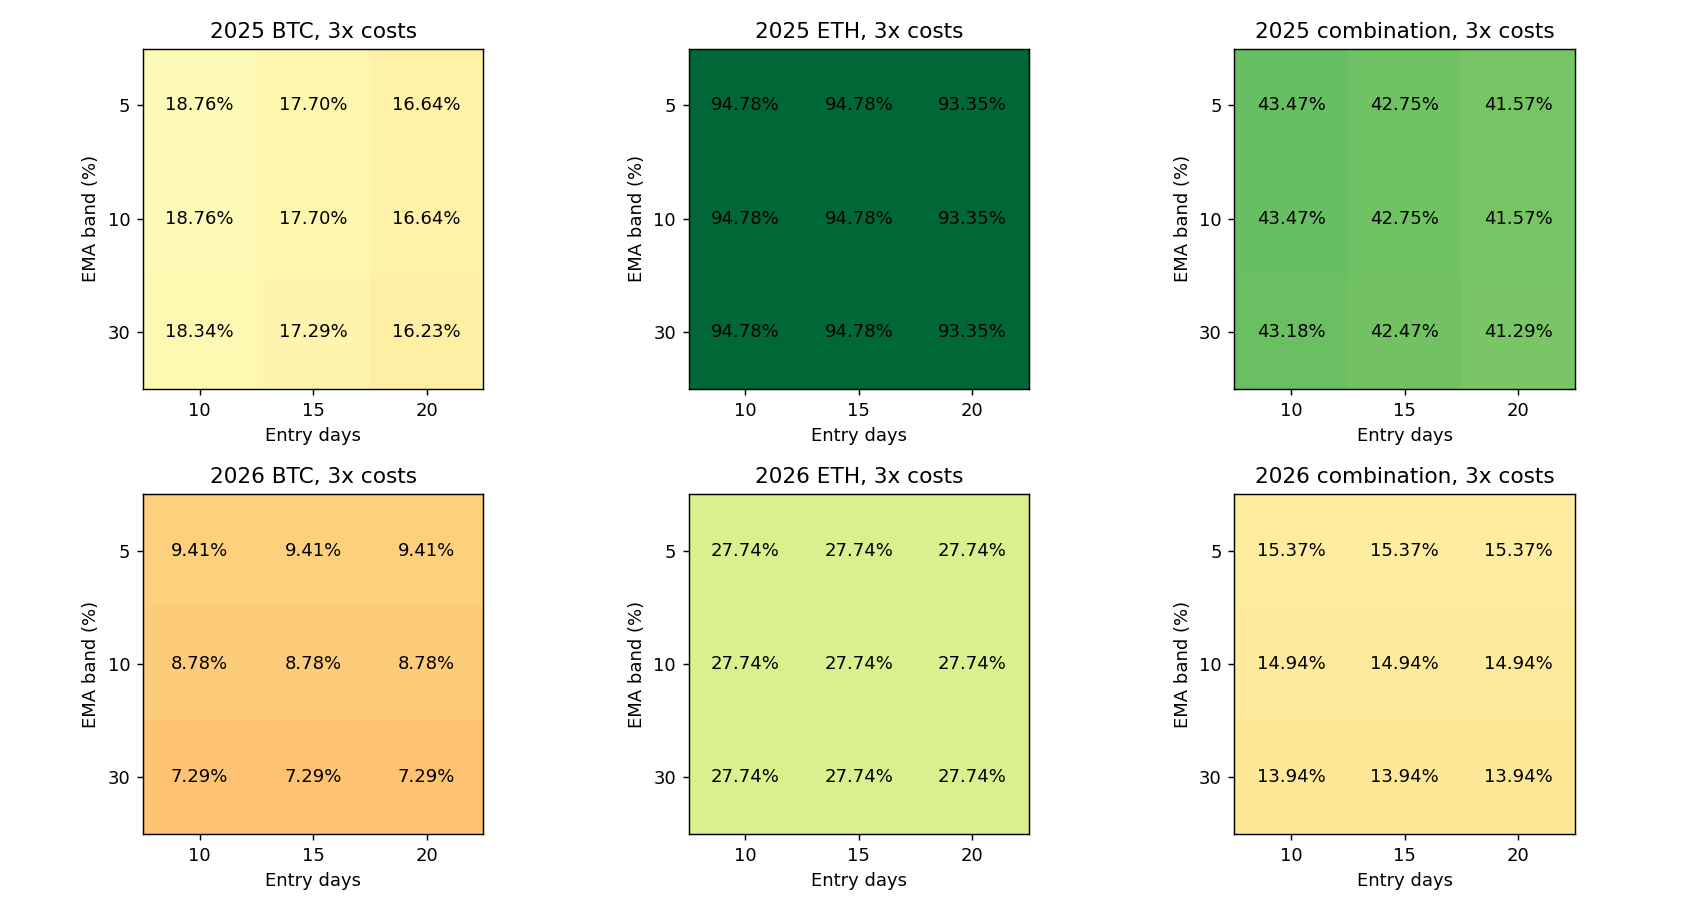
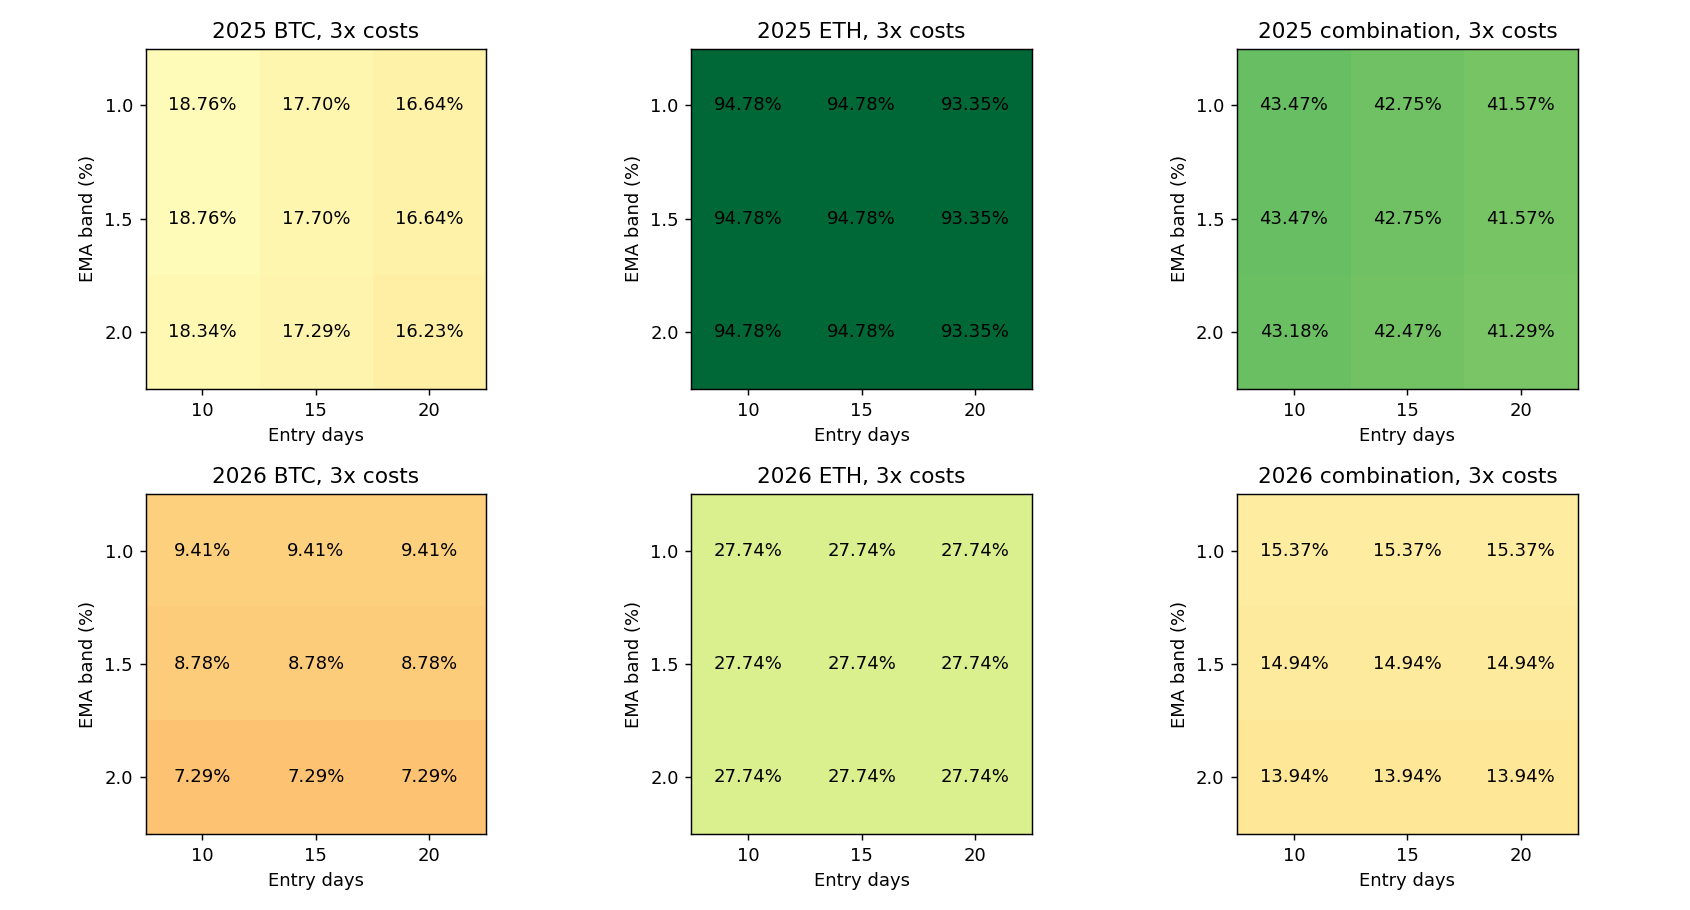
research: correct sensitivity figure axis labels; preserve backtest and registry evidence

diff --git a/research/experiments/20261005T073610Z/document.py b/research/experiments/20261005T073610Z/document.py
@@ -15,6 +15,7 @@ lines+=['','## 原冻结模拟观察','', '续接053510原state/report，从Oct5
 for n,c in f['configs'].items():
  for k,z in c['scenes'].items():lines.append(f"|{n}|{k}|{z['net_return_pct']:.6f}|{z['max_drawdown_pct']:.6f}|")
 lines+=['', '3个partial快照均rejected仅表示不足180日/六折，不终止长期观察。延迟真实数据模拟，无实盘订单，无实时成交证据，不称稳定盈利。', '', '## 登记、证据和复现','', f"完整读取登记簿{p['lines']}行、{p['canonical']}规范定义、{len(p['records'])}保留ID、{len(p['prior_conclusions'])}轮历史结论，初始16均已有结果。全部39新定义先reserve，审计通过后finish，负收益永久保留。", '本轮历史独立审计全部162场景、42019884逐分钟NAV点、19440因果决策、72未来/当前收盘扰动探针、540成交，其中360新成交。观察审计9场景原账户连续性及HTTP200原始响应/hash/时间轴。', '代码、spec、report、压缩逐配置结果、数据哈希、中文结果和必要日志均保存。大行情/NAV缓存留忽略data目录。spec.json/data_manifest.json记录具体SHA及数据范围；report.json/source_hashes绑定代码和原验证文件。', '复现命令：`bash research/experiments/20261005T073610Z/reproduce.sh`；无HTTP或登记写入，108新历史+54只读+9观察精确重放。', '下轮可预登记单独退出阈值或新规则方向，关注跨年度折一致性，不因本轮排名追认合格。']
+lines += ['', '图表标签修正：本轮带宽图原纵轴误沿用5/10/30，修正为冻结band1/1.5/2%。上轮053510实际exit15/25/30也附修正图previous_053510_sensitivity_corrected.png，原图/记录保持历史。presentation_correction.json保存源图/报告SHA；无任何回测数值或登记变化。']
 (T/'result.md').write_text('\n'.join(lines)+'\n')
 fig,axes=plt.subplots(2,3,figsize=(13,7))
 for i,y in enumerate(('2025','2026')):
@@ -22,5 +23,5 @@ for i,y in enumerate(('2025','2026')):
   cells={(c['EMA_band'],c['entry_days']):c for c in r['configs'].values() if c['year']==y and c.get('asset','combination')==a};v=np.array([[cells[x,e]['scenes']['3']['net_return_pct'] for e in (10,15,20)] for x in (.01,.015,.02)]);ax=axes[i,j];im=ax.imshow(v,cmap='RdYlGn',vmin=-20,vmax=60)
   for ii,x in enumerate((.01,.015,.02)):
    for jj,e in enumerate((10,15,20)):ax.text(jj,ii,f'{v[ii,jj]:.2f}%',ha='center',va='center')
-  ax.set_xticks(range(3),[10,15,20]);ax.set_yticks(range(3),[5,10,30]);ax.set_xlabel('Entry days');ax.set_ylabel('EMA band (%)');ax.set_title(f'{y} {a}, 3x costs')
+  ax.set_xticks(range(3),[10,15,20]);ax.set_yticks(range(3),[100*x for x in r['plan']['grid']['EMA_symmetric_bands']]);ax.set_xlabel('Entry days');ax.set_ylabel('EMA band (%)');ax.set_title(f'{y} {a}, 3x costs')
 fig.tight_layout();fig.savefig(T/'sensitivity.png',dpi=130);plt.close(fig)

diff --git a/research/experiments/20261005T073610Z/presentation_correction.py b/research/experiments/20261005T073610Z/presentation_correction.py
@@ -1,0 +1,20 @@
+"""Preserve original published figure identities and repair labels without reevaluating any strategy."""
+import hashlib,json
+from pathlib import Path
+import matplotlib
+matplotlib.use('Agg')
+import matplotlib.pyplot as plt
+import numpy as np
+T=Path(__file__).resolve().parent;R=T.parents[2];prior=R/'research/experiments/20261005T053510Z'
+sha=lambda p:hashlib.sha256(p.read_bytes()).hexdigest()
+def render_exit_correction():
+ r=json.loads((prior/'report.json').read_text());fig,axes=plt.subplots(2,3,figsize=(13,7));entries=r['plan']['grid']['entry_lookback_days'];exits=r['plan']['grid']['exit_lookback_days'];assert exits==[15,25,30]
+ for i,y in enumerate(('2025','2026')):
+  for j,a in enumerate(('BTC','ETH','combination')):
+   cells={(c['exit_days'],c['entry_days']):c for c in r['configs'].values() if c['year']==y and c.get('asset','combination')==a};v=np.array([[cells[x,e]['scenes']['3']['net_return_pct'] for e in entries] for x in exits]);ax=axes[i,j];ax.imshow(v,cmap='RdYlGn',vmin=-20,vmax=60)
+   for ii,x in enumerate(exits):
+    for jj,e in enumerate(entries):ax.text(jj,ii,f'{v[ii,jj]:.2f}%',ha='center',va='center')
+   ax.set_xticks(range(3),entries);ax.set_yticks(range(3),exits);ax.set_xlabel('Entry days');ax.set_ylabel('Exit days');ax.set_title(f'{y} {a}, 3x costs')
+ fig.tight_layout();out=T/'previous_053510_sensitivity_corrected.png';fig.savefig(out,dpi=130);plt.close(fig);return out
+if __name__=='__main__':
+ out=render_exit_correction();note=json.loads((T/'presentation_correction.json').read_text());assert sha(prior/'sensitivity.png')==note['prior_original_figure_sha256'];assert sha(T/'report.json')==note['unchanged_current_report_sha256'];assert sha(prior/'report.json')==note['unchanged_prior_report_sha256'];assert sha(R/'research/automation/registry.jsonl')==note['unchanged_registry_sha256'];note.update(current_corrected_figure_sha256=sha(T/'sensitivity.png'),prior_corrected_copy=str(out.relative_to(R)),prior_corrected_copy_sha256=sha(out));(T/'presentation_correction.json').write_text(json.dumps(note,ensure_ascii=False,indent=2)+'\n');print('PASS: graph labels follow frozen axes; all numerical reports and registry unchanged')

diff --git a/research/experiments/20261005T073610Z/verify.py b/research/experiments/20261005T073610Z/verify.py
@@ -30,7 +30,9 @@ assert all(len(z['equity_usdt'])==4754 and z['elapsed_minutes']==4749 and z['ela
 old=json.loads((R/f['source_state']).read_text());state=json.loads((T/'forward_state.json').read_text());assert old['positions_by_asset_and_cost']==state['positions_by_asset_and_cost'] and state['next_daily_decision_utc']=='2026-10-06T00:01:00Z'
 replay=(T/'reproduce.log').read_text();assert all(x in replay for x in ('PASS:all108 NEW scenes','and54 EXISTING scenes read-only verified','PASS:all9 cumulative forward scenes','PASS: new parameters/weights'))
 assert len((T/'finish.log').read_text().splitlines())==39
-base=subprocess.check_output(['git','rev-parse','HEAD'],text=True).strip();assert base=='1ca75d0a110544501eab76a0107dde7355ef733e'
+fix=json.loads((T/'presentation_correction.json').read_text());assert sha(T/'report.json')==fix['unchanged_current_report_sha256'] and sha(L)==fix['unchanged_registry_sha256'] and sha(T/'sensitivity.png')==fix['current_corrected_figure_sha256']
+assert sha(R/fix['prior_corrected_copy'])==fix['prior_corrected_copy_sha256']
+base=subprocess.check_output(['git','rev-parse','HEAD'],text=True).strip();assert base=='534d35ef65ec177ef488abde2d9bce01c666252c'
 paths=sorted(q for q in T.rglob('*') if q.is_file() and '__pycache__' not in q.parts and q.name!='verification.json')+[L,R/'research/automation/README.md']
 v={'passed':True,'verified_at_utc':datetime.now(timezone.utc).isoformat(),'base_commit':base,'registry':{'rows':3085,'canonical':1493,'preserved_ids':1495,'unchanged_prior_rows':3007,'new_reserved_and_finished':39,'pending':0},'historical_summary':r['summary'],'audits':audits,'files_sha256':{str(q.relative_to(R)):sha(q) for q in paths}}
 (T/'verification.json').write_text(json.dumps(v,indent=2)+'\n');print(json.dumps(v['registry']))

diff --git a/research/experiments/20261005T073610Z/result.md b/research/experiments/20261005T073610Z/result.md
@@ -210,3 +210,5 @@ entry15组合：2025 band1.0%：三倍成本收益42.75414%，分钟回撤13.329
 代码、spec、report、压缩逐配置结果、数据哈希、中文结果和必要日志均保存。大行情/NAV缓存留忽略data目录。spec.json/data_manifest.json记录具体SHA及数据范围；report.json/source_hashes绑定代码和原验证文件。
 复现命令：`bash research/experiments/20261005T073610Z/reproduce.sh`；无HTTP或登记写入，108新历史+54只读+9观察精确重放。
 下轮可预登记单独退出阈值或新规则方向，关注跨年度折一致性，不因本轮排名追认合格。
+
+图表标签修正：本轮带宽图原纵轴误沿用5/10/30，修正为冻结band1/1.5/2%。上轮053510实际exit15/25/30也附修正图previous_053510_sensitivity_corrected.png，原图/记录保持历史。presentation_correction.json保存源图/报告SHA；无任何回测数值或登记变化。
